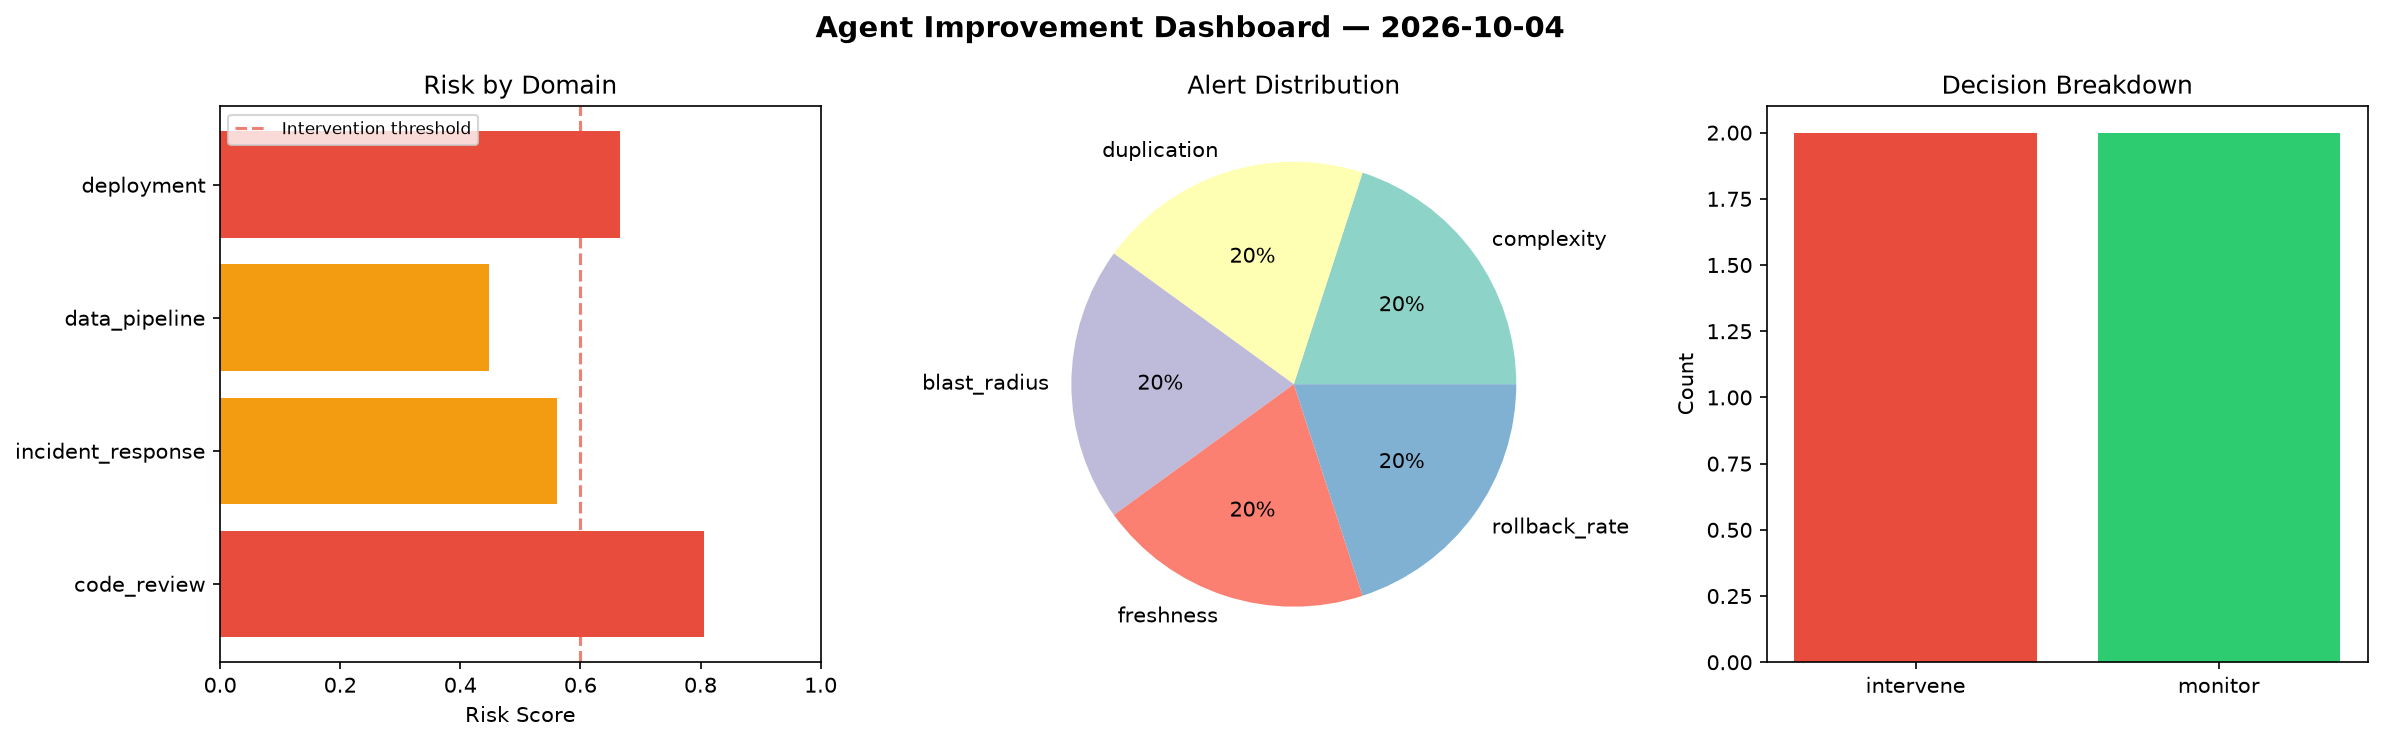
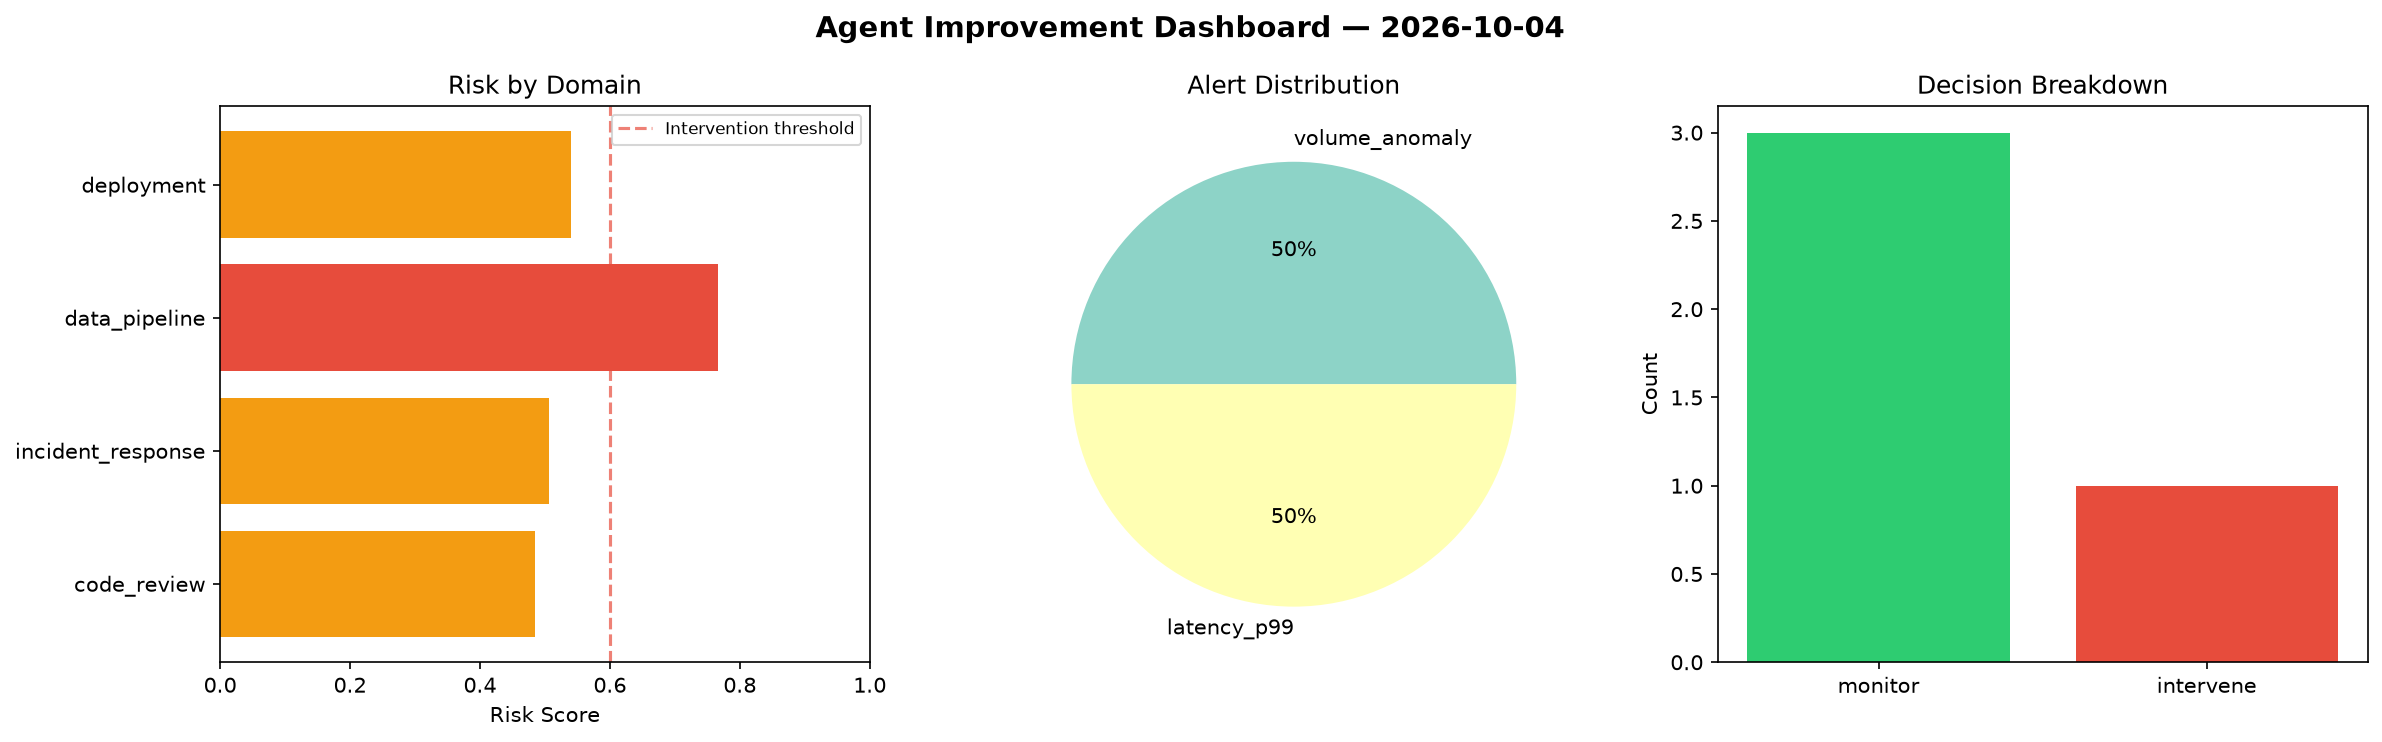
agent-improvement: daily cycle 2026-10-04T14:04

diff --git a/logs/2026-10-04.md b/logs/2026-10-04.md
@@ -1,6 +1,6 @@
 # Agent Improvement Report — 2026-10-04
 
-**Cycle ID:** `a7dfaf04` | **Avg Risk:** 0.6201 | **Interventions:** 2/4
+**Cycle ID:** `ea119b76` | **Avg Risk:** 0.5746 | **Interventions:** 1/4
 
 ![Dashboard](2026-10-04_dashboard.png)
 
@@ -10,18 +10,18 @@
 
 | Domain | Risk Score | Decision | Alerts |
 |--------|-----------|----------|--------|
-| code_review | 0.8058 | intervene | complexity, duplication |
-| incident_response | 0.561 | monitor | blast_radius |
-| data_pipeline | 0.4475 | monitor | freshness |
-| deployment | 0.666 | intervene | rollback_rate |
+| code_review | 0.4846 | monitor | none |
+| incident_response | 0.507 | monitor | none |
+| data_pipeline | 0.7671 | intervene | volume_anomaly |
+| deployment | 0.5396 | monitor | latency_p99 |
 
 ## Delta vs Yesterday
 
 | Domain | Today | Yesterday | Change |
 |--------|-------|-----------|--------|
-| code_review | 0.8058 | 0.6106 | 📈 32.0% |
-| incident_response | 0.561 | 0.6095 | 📉 -8.0% |
-| data_pipeline | 0.4475 | 0.2502 | 📈 78.9% |
-| deployment | 0.666 | 0.5489 | 📈 21.3% |
+| code_review | 0.4846 | 0.6106 | 📉 -20.6% |
+| incident_response | 0.507 | 0.6095 | 📉 -16.8% |
+| data_pipeline | 0.7671 | 0.2502 | 📈 206.6% |
+| deployment | 0.5396 | 0.5489 | 📉 -1.7% |
 
-**Refinement:** `{'adjustment': 'maintain', 'trend': 'improving', 'window': 4}`
+**Refinement:** `{'adjustment': 'tighten_thresholds', 'trend': 'degrading', 'window': 4}`
